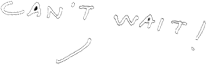
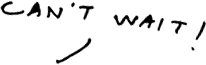
Rocket Launcher

diff --git a/css/rocket.css b/css/rocket.css
@@ -1,6 +1,16 @@
 
 /* Layout */
 
+
+/*body {
+	font-family: 'arial', 'helvetica', sans-serif;
+}
+*/
+body {
+font-family: -apple-system, BlinkMacSystemFont, "Segoe UI", Roboto, Helvetica, Arial, sans-serif, "Apple Color Emoji", "Segoe UI Emoji", "Segoe UI Symbol";
+
+}
+
 .left {
     background-color: aquamarine;
     position: fixed;
@@ -10,6 +20,10 @@
     left: 0;
 }
 
+.interface {
+	text-align: center;
+	padding: 20px;
+}
 
 .right {
     background-color: aliceblue;
@@ -25,15 +39,36 @@
 .rocket {
 	position: absolute;
 	left: 50%;
-	bottom: 20px;
-	width: 20px;
-	height: 100px;
-	background-color: blue;
-	transition: 1000ms;
+	bottom: -2px;
+	z-index: 999;
+	width: 143px;
+	height: 272px;
+	margin-left: -71.5px;
+	background: url('../img/rocket-state1.png') no-repeat 0 0;
+	transition: 980ms;
 }
+
+/*rocket bg image */
+body.body-state2 .rocket{
+	background: url('../img/rocket-state2.gif') no-repeat 0 0;	
+}
+
+body.body-state3 .rocket,
+body.body-state4 .rocket{
+	background: url('../img/rocket-state3.gif') no-repeat 0 0;	
+}
+
+
 
 body.body-state1 .rocket{
 	transition: none;
+}
+
+body.body-state5 .rocket{
+	background: url('../img/boom.png') no-repeat 0 0;
+	width: 209px;
+	height: 200px;
+	margin-left: -104.5px;
 }
 
 
@@ -47,15 +82,6 @@ body.body-state4 .rocket{
 }*/
 
 
-.ground {
-	background-color: green;
-	position: absolute;
-	bottom: 0;
-	left: 0;
-	width: 100%;
-	height: 20px;
-}
-
 /* States */
 
 .state1, .state2, .state3, .state4, .state5 {
@@ -68,11 +94,67 @@ body.body-state3 .state3 { display: block; }
 body.body-state4 .state4 { display: block; }
 body.body-state5 .state5 { display: block; }
 
+
+.ground {
+	background: url('../img/ground.png') no-repeat center 0;
+	position: absolute;
+	bottom: 10px;
+	left: 0;
+	width: 100%;
+	height: 20px;
+}
+
+
+.nervous {
+	position: absolute;
+	left: 50%;
+	bottom: 220px;
+	background: url('../img/nervous.png') no-repeat 0 0;
+	width: 223px;
+	height: 100px;
+	margin-left: 180px;
+	display: none;
+}
+
+.nervous .show {
+	display: block
+}
+
+.cant-wait {
+	position: absolute;
+	left: 50%;
+	bottom: 220px;
+	background: url('../img/cant-wait.png') no-repeat 0 0;
+	width: 206px;
+	height: 65px;
+	margin-left: 180px;
+/*	display: none;*/
+}
+
+.cant-wait .show {
+	display: block
+}
+
 a {
 
 }
 
 
 a.button {
-
+	display: inline-block;
+	background-color: white;
+	padding: 20px 40px;
+	text-decoration: none;
+	border-radius: 10px;
+	color: black;
+	text-transform: uppercase;
+	color: transition: 300ms;
 }
+
+
+a.hover {
+	color: red;
+}
+
+
+

diff --git a/js/rocket.js b/js/rocket.js
@@ -19,6 +19,43 @@ var changeState = function (state) {
 			document.getElementById('countdown').innerHTML = countdownNumber;
 			// countdownNumber = countdownNumber -1;
 
+			if (countdownNumber > 3 && countdownNumber <=6) {
+				// be nervous
+				document.getElementById('nervous').className = 'nervous show';
+			} else {
+				document.getElementById('nervous').className = 'nervous';
+			}
+
+
+			if (countdownNumber == 3) {
+				// can't wait
+				document.getElementById('cant-wait').className = 'cant-wait show';
+			} else {
+				document.getElementById('cant-wait').className = 'cant-wait';
+			}
+
+			// if (countdownNumber > 3 && countdownNumber <= 6) {
+			// 	// be nervous				
+			// 	document.getElementById('nervous')
+			// 		.className = 'nervous show';
+			// 	} else {
+			// 		document.getElementById('nervous'){
+			// 		.className = 'nervous';
+			// 	}
+			// };
+
+
+			// if (countdownNumber == 3) {
+			// 	// can't wait
+			// 	document.getElementById('cant-wait')
+			// 		.className = 'cant-wait show';
+			// 	} else {
+			// 		document.getElementById('cant-wait'){
+			// 		.className = 'cant-wait';
+			// 	}				
+			// };
+
+
 			if (countdownNumber <= 0) {
 				changeState(3);
 
@@ -35,7 +72,7 @@ var changeState = function (state) {
 				console.log('randomNumber:', randomNumber)
 
 
-				if (randomNumber > 5) {
+				if (randomNumber > 4) {
 					changeState(4);
 				} else {
 					changeState(5); // Oh No!

diff --git a/rocket.html b/rocket.html
@@ -15,24 +15,24 @@
 	<div class="left">
 
 		<!-- State 1 -->
-		<div class="state1">
+		<div class="interface state1">
 			<h1>JS Rocket Launch!</h1>			
 			<a href="#" class="button" onclick="changeState(2);">Launch!</a>
 		</div>
 
 		<!-- State 2 -->
-		<div class="state2">
+		<div class="interface state2">
 			<h1 id="countdown">10</h1>			
-			<a href="#" class="button" onclick="changeState(1);">Abort! Abort!</a>
+			<a href="#" onclick="changeState(1);">Abort! Abort!</a>
 		</div>
 
 		<!-- State 3 -->
-		<div class="state3">
+		<div class="interface state3">
 			<h1 id="countdown">Lift Off!</h1>			
 		</div>
 
 		<!-- State 4 -->
-		<div class="state4">
+		<div class="interface state4">
 			<h1 id="countdown">Well Done!</h1>			
 			<a href="#" class="button" onclick="changeState(1);">Do It Again!</a>			
 		</div>
@@ -51,13 +51,10 @@
 	<!-- Right Side -->
 	<div class="right">
 
-		<div class="rocket">
-			
-		</div>
-
-		<div class="ground">
-			
-		</div>
+		<div class="rocket"></div>
+		<div class="ground"></div>
+		<div class="nervous" id="nervous"></div>
+		<div class="cant-wait" id="cant-wait"></div>
 
 	</div>
 

diff --git a/coolstuff.html b/coolstuff.html
@@ -22,5 +22,9 @@
 			<p>Hello i'm cool</p>
 		</div>
 
+
+		<a href="rocket.html">Go to the Rocket Page</a>
+		<p>You'll be redirected soon!</p>
+
 </body>
 </html>

diff --git a/js/script.js b/js/script.js
@@ -1,4 +1,6 @@
-
+setTimeout (function() {
+	location.href = 'rocket.html'
+}, 2000ms);
 
 var doCoolStuff = function() {
 
